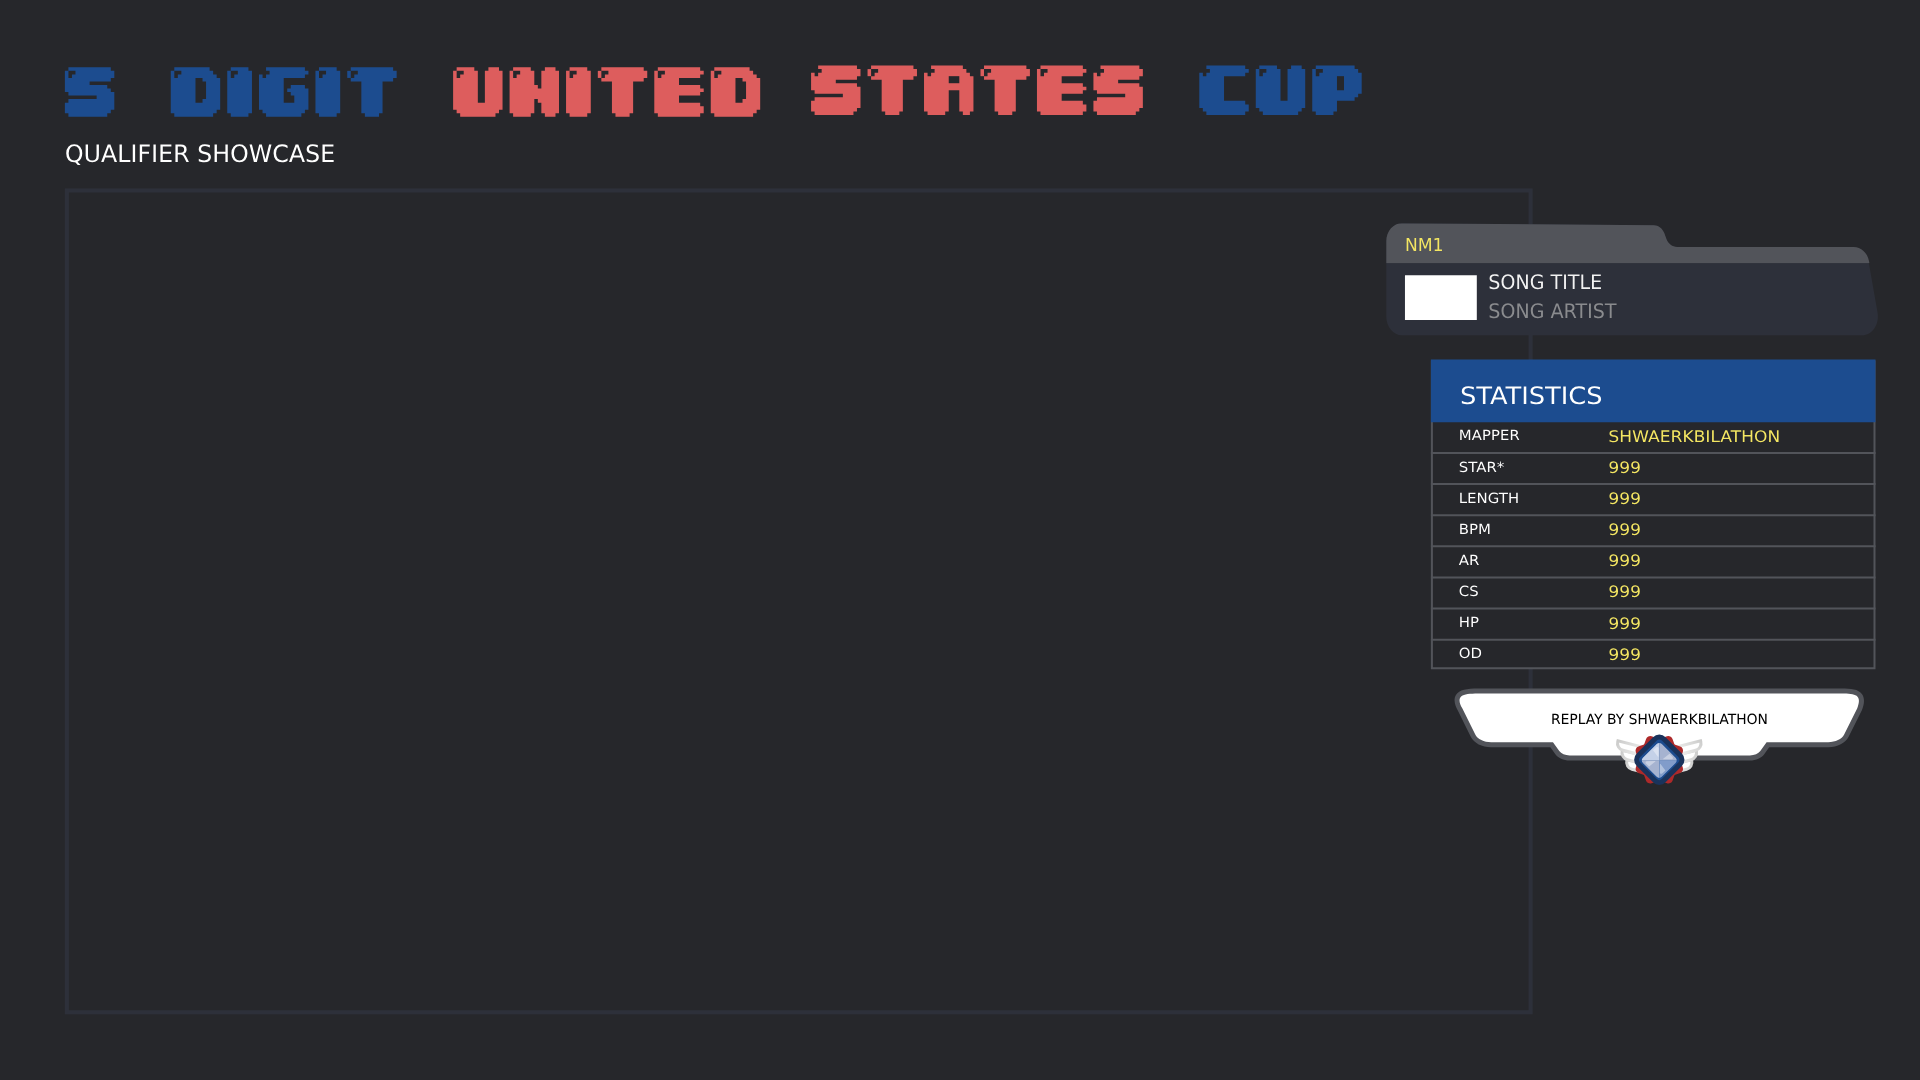
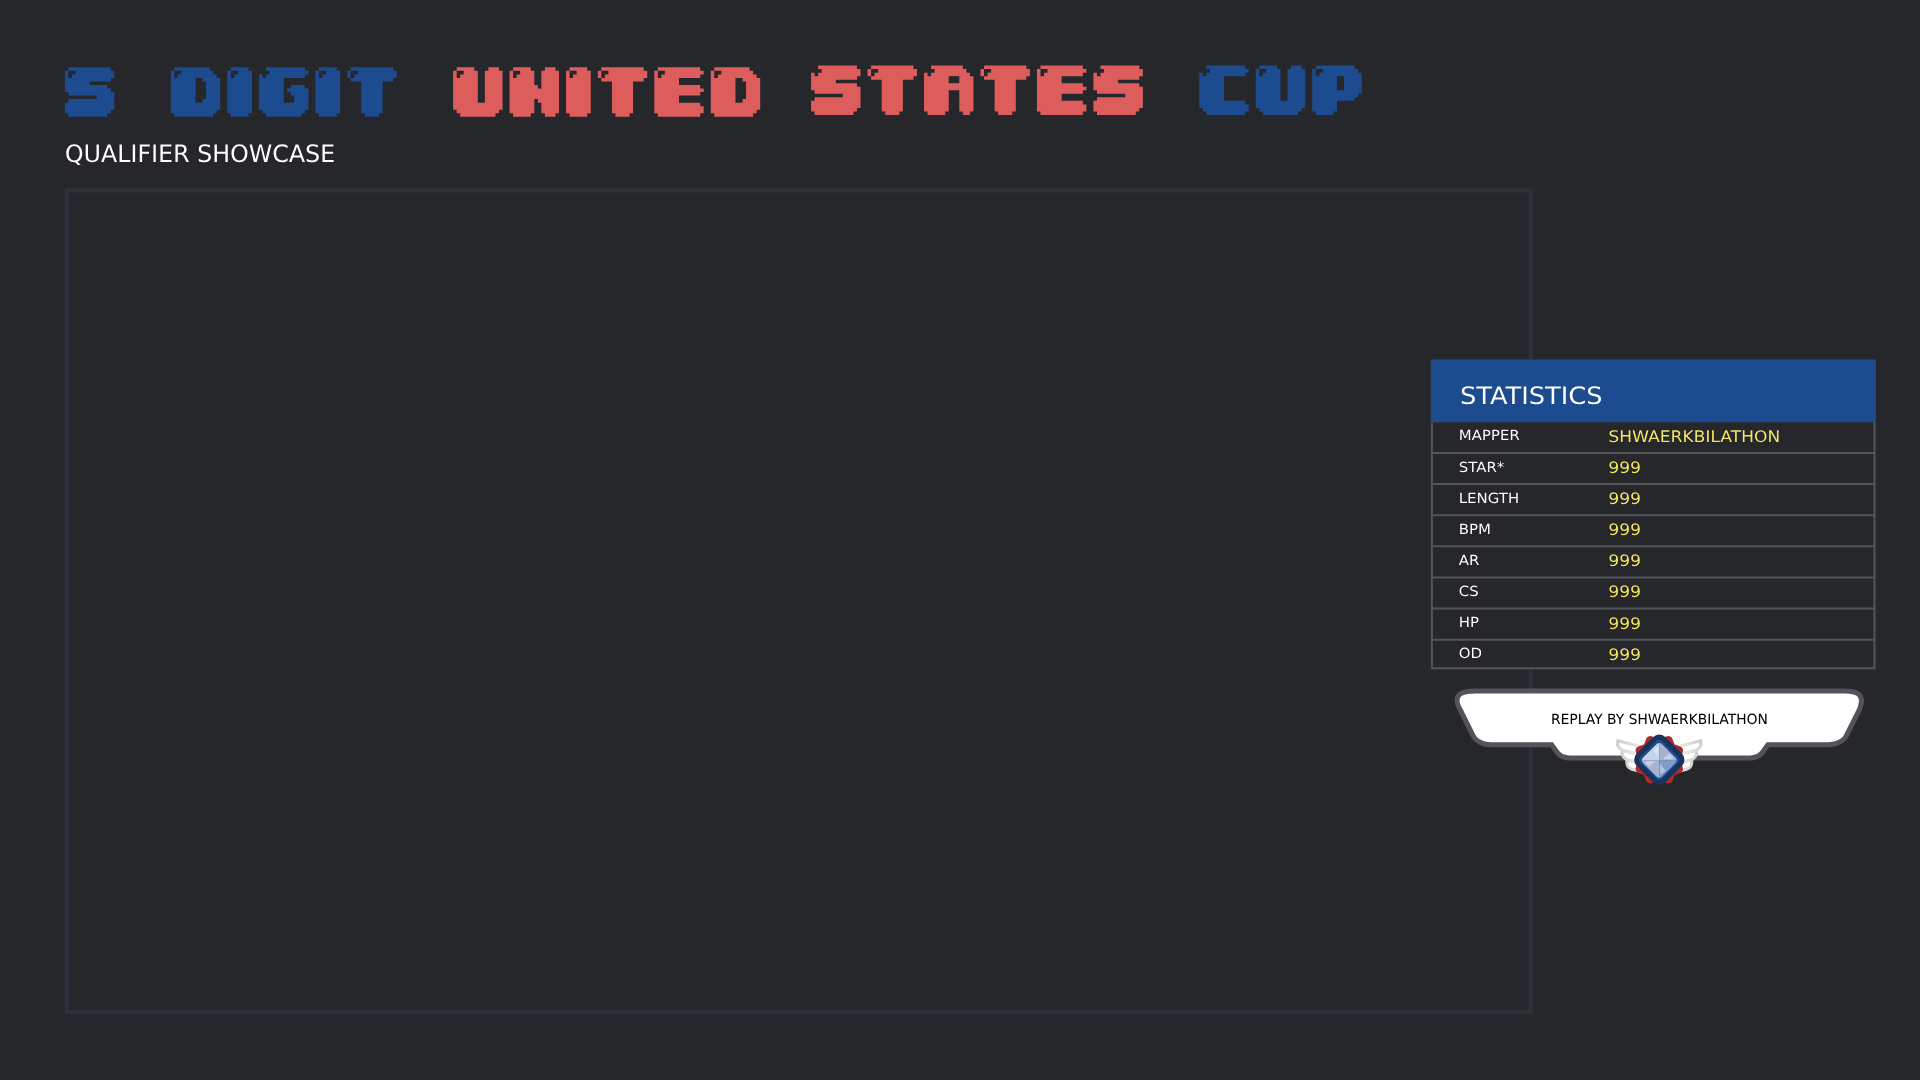
Complete styling statistics table header

Changed region(s): [[0.7188, 0.1833, 0.9688, 0.3056]]

diff --git a/now-playing/style.css b/now-playing/style.css
@@ -1,9 +1,15 @@
+/* ===========================
+   Fonts
+=========================== */
 @font-face {
     font-family: "Dogica";
     src: url("../font/dogica.woff2");
     font-weight: 400;
 }
 
+/* ===========================
+   Now Playing
+=========================== */
 .now-playing {
     position: absolute;
     top: 0;
@@ -14,6 +20,9 @@
     background-size: cover;
 }
 
+/* ===========================
+   Title
+=========================== */
 .title {
     line-height: 32px;
     font-size: 18px;
@@ -27,6 +36,9 @@
     text-overflow: hidden;
 }
 
+/* ===========================
+   Sonng Banner
+=========================== */
 .song-banner {
     position: absolute;
     top: calc(65px / 2 + 32px);
@@ -39,6 +51,9 @@
     background-position: center;
 }
 
+/* ===========================
+   Song Metadata
+=========================== */
 .song-metadata {
     position: absolute;
     top: calc(65px / 2 + 32px);
@@ -51,7 +66,6 @@
     flex-direction: column;
     gap: 11px;
 }
-
 .song-metadata > * {
     letter-spacing: -2px;
     width: 390px;
@@ -59,5 +73,4 @@
     overflow-X: hidden;
     text-overflow: ellipsis;
 }
-
 .song-artist { color: #8a8b8e; }

diff --git a/showcase/style.css b/showcase/style.css
@@ -1,17 +1,52 @@
+@font-face {
+    font-family: "04B_30";
+    src: url("../font/04B_30__.woff2");
+}
+
+/* ===========================
+    Main Screen
+=========================== */
 .main {
     position: absolute;
     top: 0;
     left: 0;
     width: 1920px;
     height: 1080px;
+    background-image: url("static/background.png");
+    background-size: cover;
 }
 
+/* ===========================
+    Now Playing Iframe
+=========================== */
 .now-playing-iframe {
     position: absolute;
-    bottom: 35px;
-    left: 126px;
+    top: 237px;
+    right: 37px;
     width: 498px;
     height: 97px;
     border: none;
     overflow: hidden;
+}
+
+/* ===========================
+    Statitics Table
+=========================== */
+.statistics-table {
+    position: absolute;
+    right: 44px;
+    top: 359px;
+    width: 441px;
+    height: 59px;
+    /* background-color: #1d4c90; */
+    border: 2px solid #1d4c90;
+}
+.statistics-header {
+    font-size: 24px;
+    color: white;
+    font-family: "04B_30";
+}
+.statistics-header div {
+    padding-left: 28px;
+    padding-top: 24px;
 }

diff --git a/showcase/index.html b/showcase/index.html
@@ -3,7 +3,7 @@
 <head>
     <meta charset="UTF-8">
     <meta name="viewport" content="width=device-width, initial-scale=1.0">
-    <title>Now Playing</title>
+    <title>Showcase</title>
 
     <link rel="stylesheet" href="style.css">
 
@@ -13,6 +13,11 @@
 <body>
     <div class="main">
         <iframe class="now-playing-iframe" id="now-playing-iframe" src="../now-playing/" title="Now Playing"></iframe>
+    
+        <!-- Statistics -->
+        <section class="statistics-table">
+            <div class="statistics-header"><div>STATISTICS</div></div>
+        </section>
     </div>
 
     <script src="index.js"></script>

diff --git a/predictions/style.css b/predictions/style.css
@@ -1,11 +1,15 @@
+/* ===========================
+   Background
+=========================== */
 .background {
     position: absolute;
     width: 1920px;
     height: 1080px;
-    background-image: url("image.webp");
-    background-size: cover;
 }
 
+/* ===========================
+   Now Playing Iframe
+=========================== */
 .now-playing-iframe {
     position: absolute;
     bottom: 10px;
